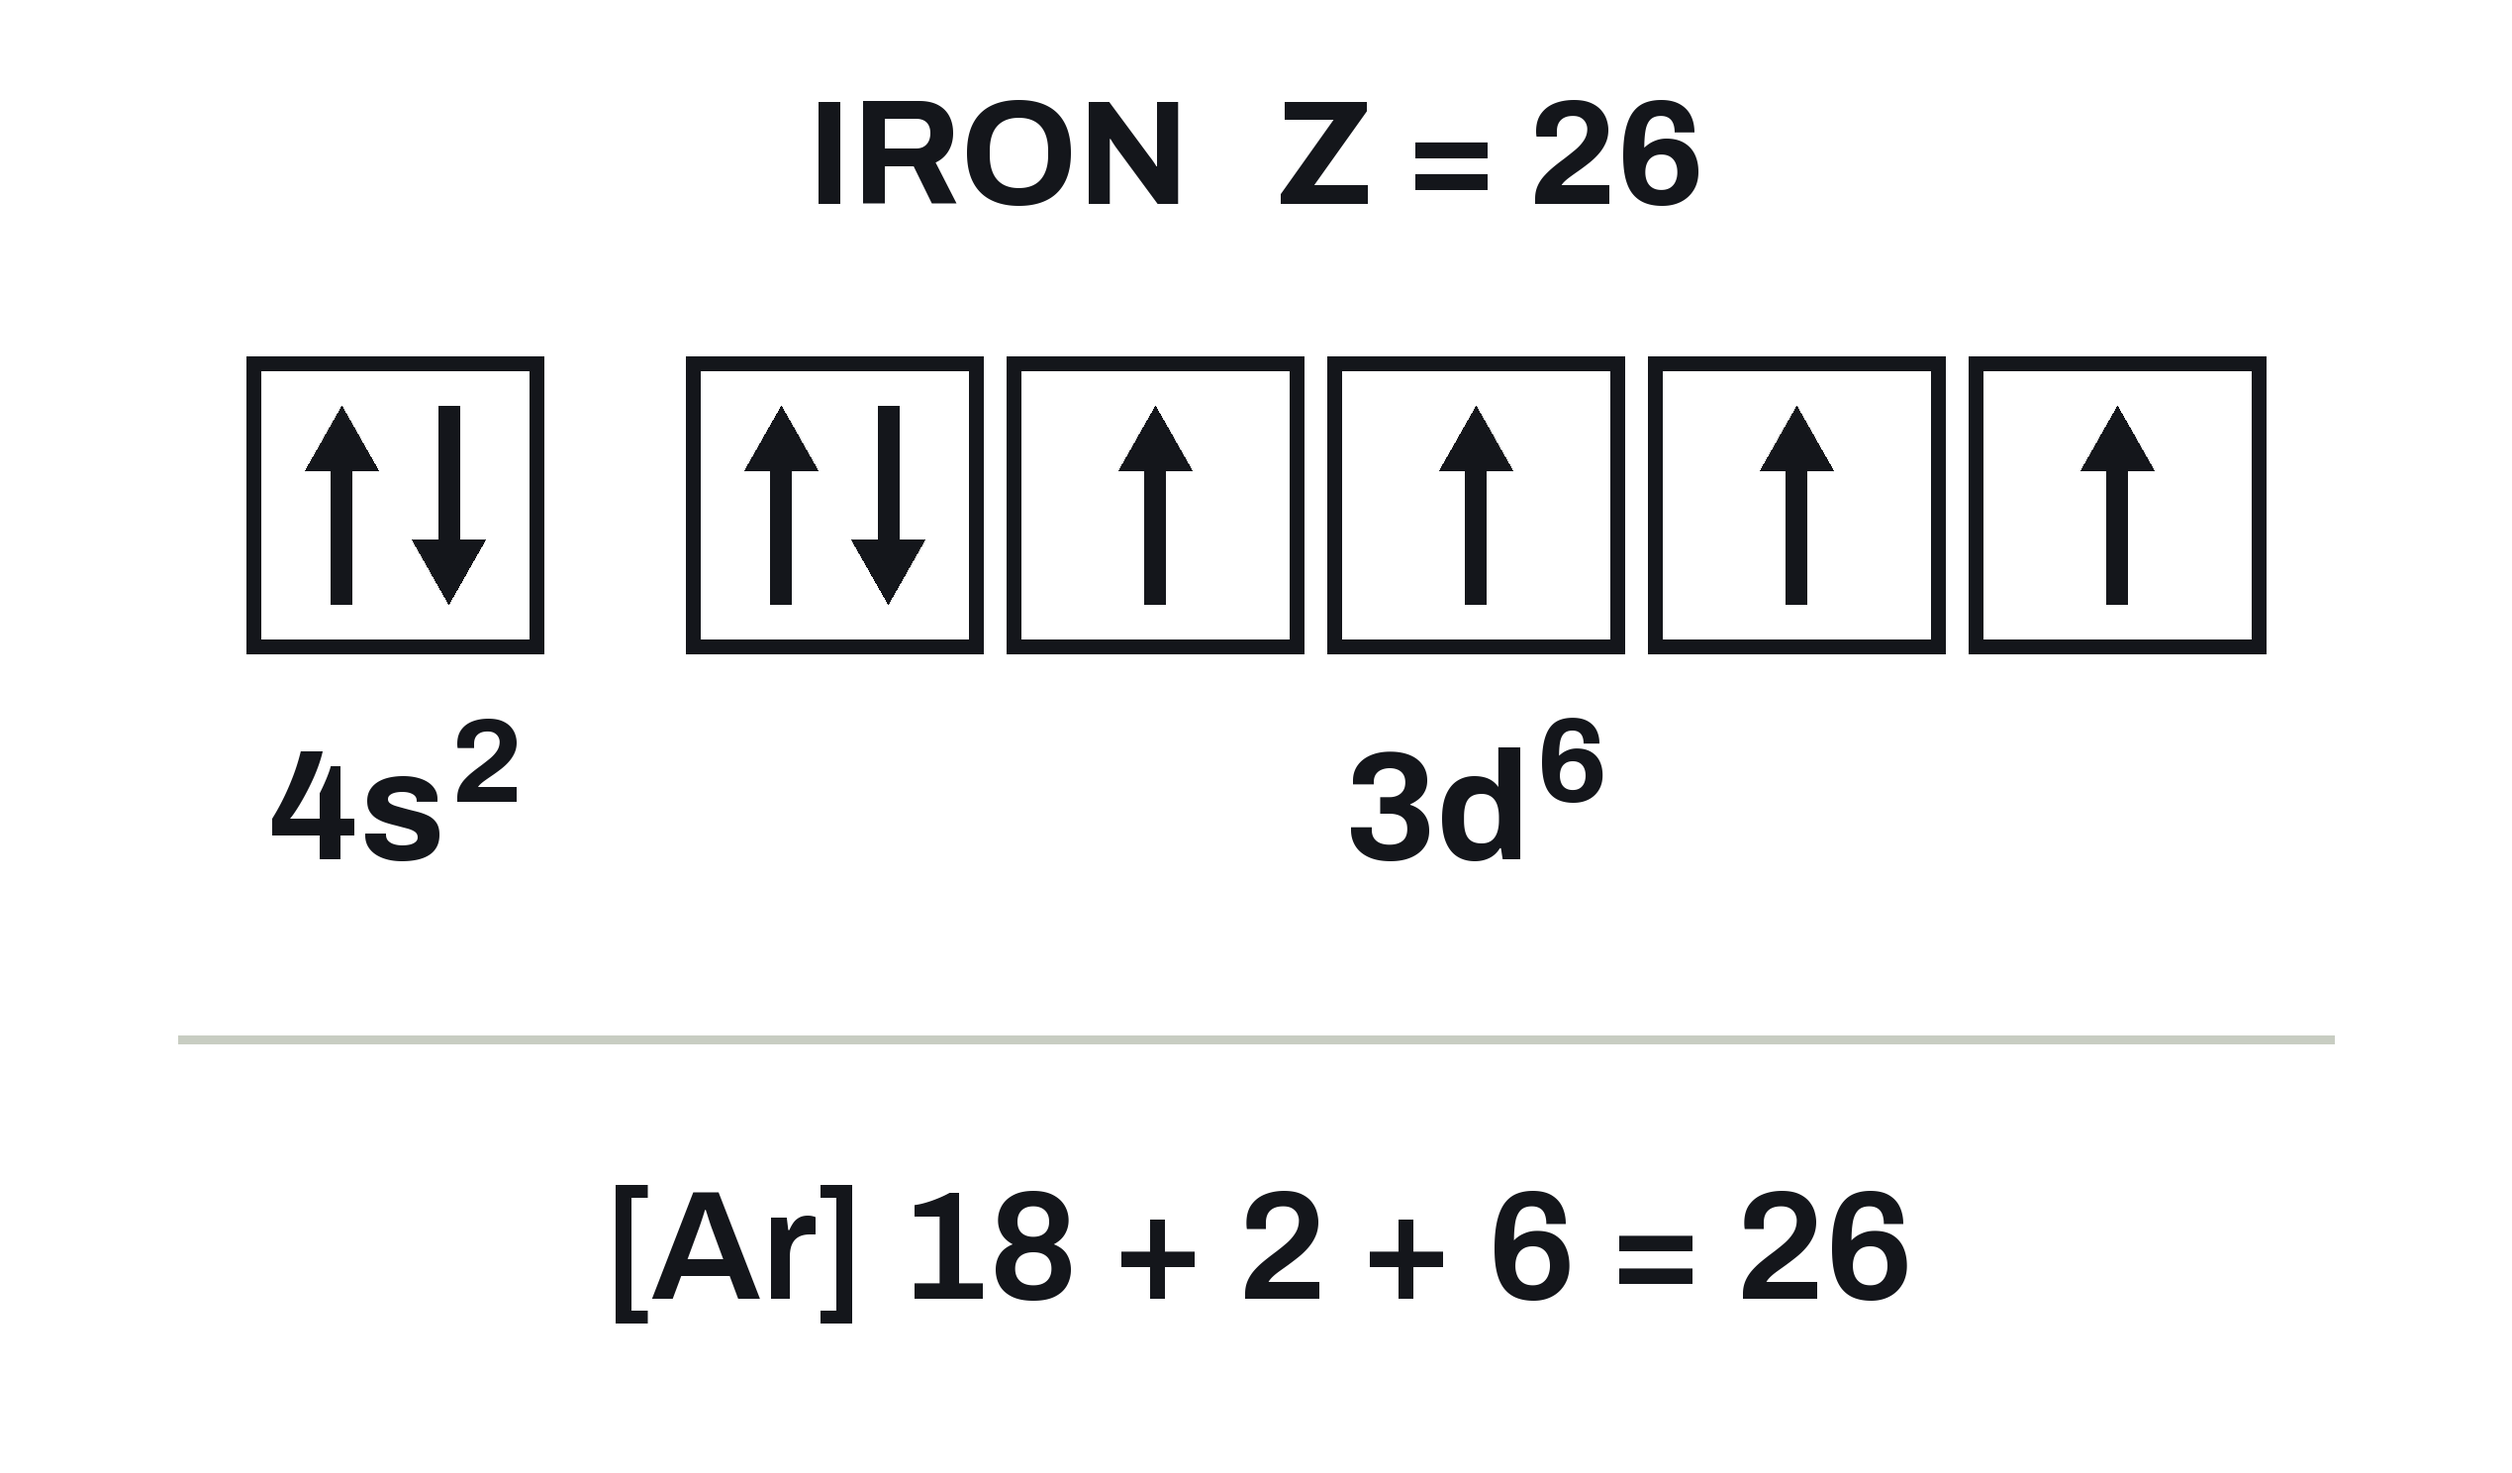
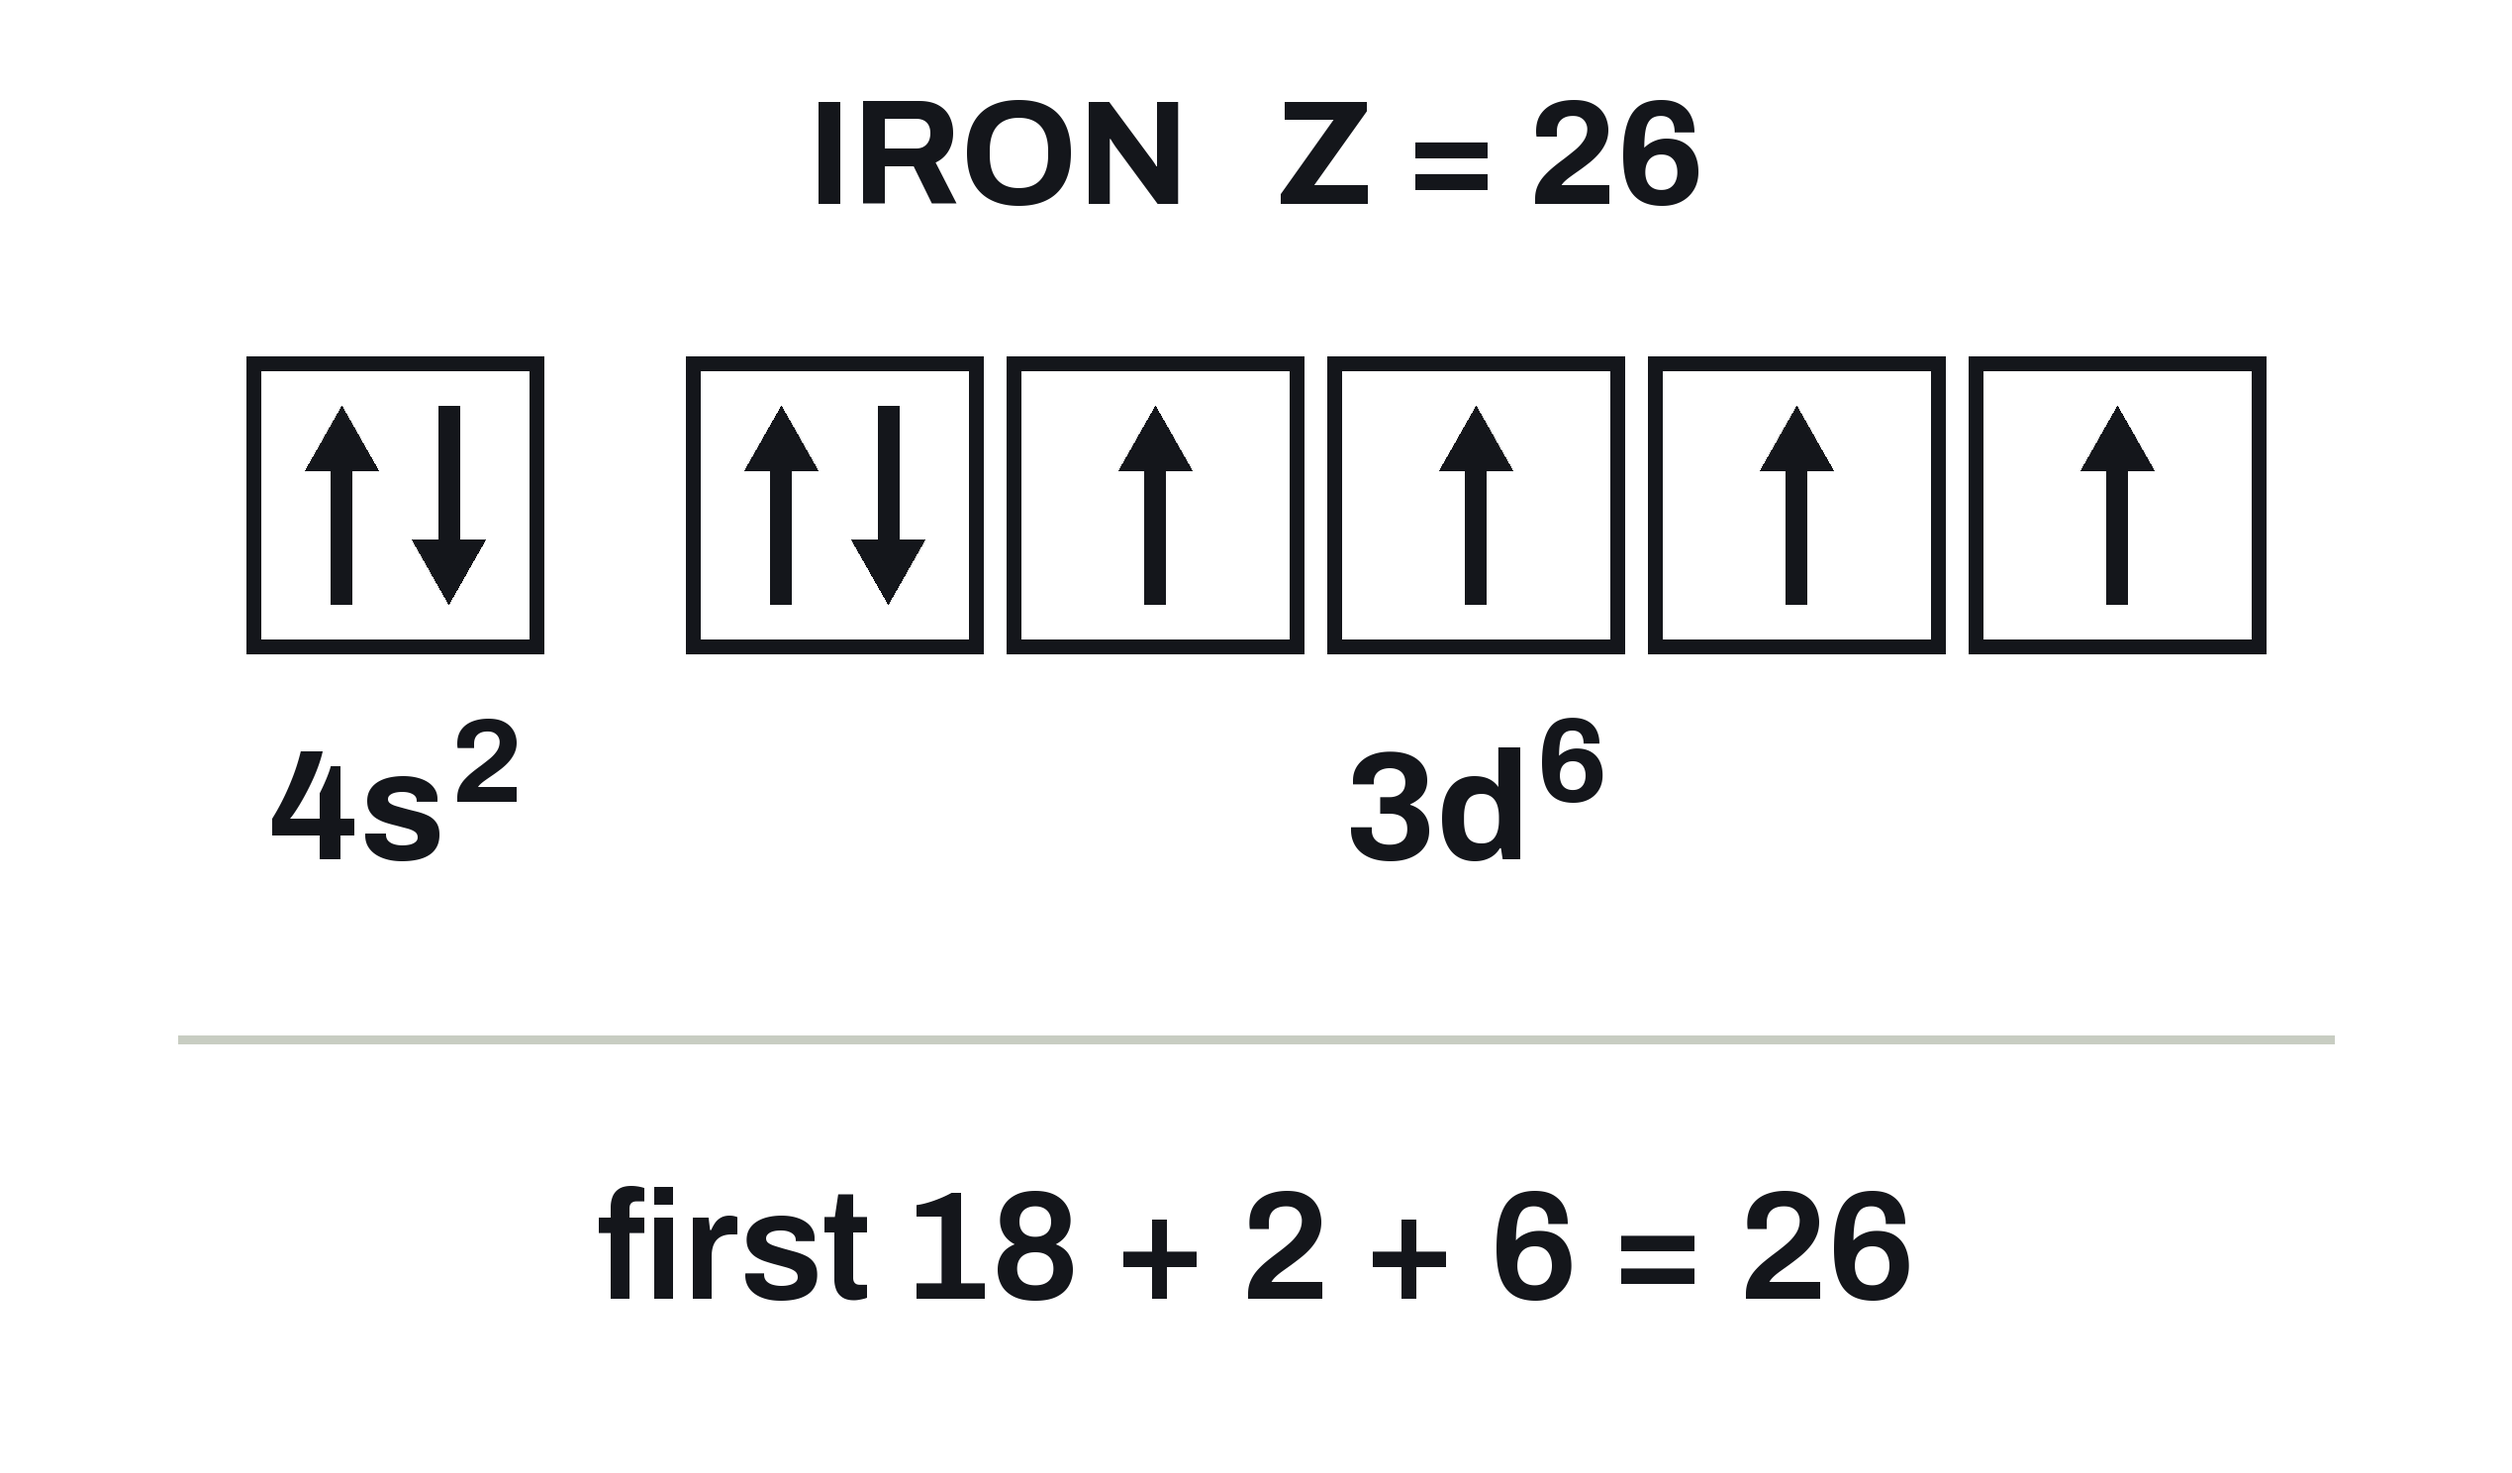
Chemistry U2 S2.1 and S2.5 final wording fixes; remove stale delta E note
Claude-Session: https://claude.ai/code/session_01CAqidLLu6PiYNMcZx5qMsE

diff --git a/scripts/build_diagram_u02_s02.3_configurations.py b/scripts/build_diagram_u02_s02.3_configurations.py
@@ -423,7 +423,9 @@ def check_against_spec():
              for bb in bspec["builds"] if bb.get("type") == "text_line"]
     ftext = ftext + " " + json.dumps(bspec, ensure_ascii=False) + " " + " ".join(built)
     off_slide = {"[Kr] 4s2 3d10 4p2"}       # Ge with the wrong core: never printed
-    notes_only = {"1s2 2s2 2p6 3s2 3p3", "[Ne] 3s2 3p4"}   # P, S answers: speaker notes only
+    # P, S answers: speaker notes only. Fe shorthand is checked but not printed: shorthand is taught on
+    # the slide after the iron slides, so the iron slides use the full configuration only.
+    notes_only = {"1s2 2s2 2p6 3s2 3p3", "[Ne] 3s2 3p4", "[Ar] 4s2 3d6"}
     missing = []
     for _, _, cfg, _ in GOOD:
         if cfg not in notes_only and mark(cfg) not in ftext:
@@ -431,6 +433,24 @@ def check_against_spec():
     for _, _, cfg, _ in BAD:
         if cfg not in off_slide and mark(cfg) not in ftext:
             missing.append(("bad", cfg, mark(cfg)))
+    # 3b. notation order: nothing before the shorthand slide may print a noble-gas bracket, or use the word
+    #     "Longhand" in a student field before the slide that defines it
+    heads_ = [sl["fields"]["headline"] for sl in slides]
+    i_short = heads_.index("Noble-Gas Shorthand")
+    i_long = heads_.index("Longhand: N, Cl, and Ca")
+    for i_, sl in enumerate(slides[:i_short]):
+        vis = json.dumps(sl["fields"], ensure_ascii=False)
+        vis += json.dumps([bb for bb in bspec["builds"] if bb["slide"] == i_ + 1 and bb["slide"] <= i_short],
+                          ensure_ascii=False).replace('"label": "[Ar]"', "")
+        assert not re.search(r"\[[A-Z][a-z]\]", vis), f"slide {i_ + 1}: noble-gas bracket before the shorthand slide"
+        if i_ < i_long:
+            assert "longhand" not in json.dumps(sl["fields"]).lower(), f"slide {i_ + 1}: 'Longhand' before it is defined"
+    fe = slide_text_by_headline = next(sl for sl in slides if sl["fields"]["headline"] == "Iron, Worked")
+    assert mark("1s2 2s2 2p6 3s2 3p6 4s2 3d6").split(" 3s")[0] in fe["fields"]["work"], "iron WORK card lacks the full configuration"
+    assert "4s^{2} 3d^{6}" in fe["fields"]["work"] and "2+2+6+2+6+2+6 = 26" in fe["fields"]["work"]
+    fb = next(bb for bb in bspec["builds"] if bb["slide"] == heads_.index("Iron, Worked") + 1)
+    assert fb["core"]["electrons"] == 18 and fb["sum"] == "first 18 + 2 + 6 = 26", "iron build sum"
+    assert electrons("1s2 2s2 2p6 3s2 3p6 4s2 3d6") == 26 == fb["core"]["electrons"] + 2 + 6
     # 4. strays: any config-looking token on a slide or in a note that no checked string contains
     checked = ({c for _, _, c, _ in GOOD} | {c for _, _, c, _ in BAD} | {c for *_, c in ION}
                | {c for _, _, c in BEYOND_SCOPE})
